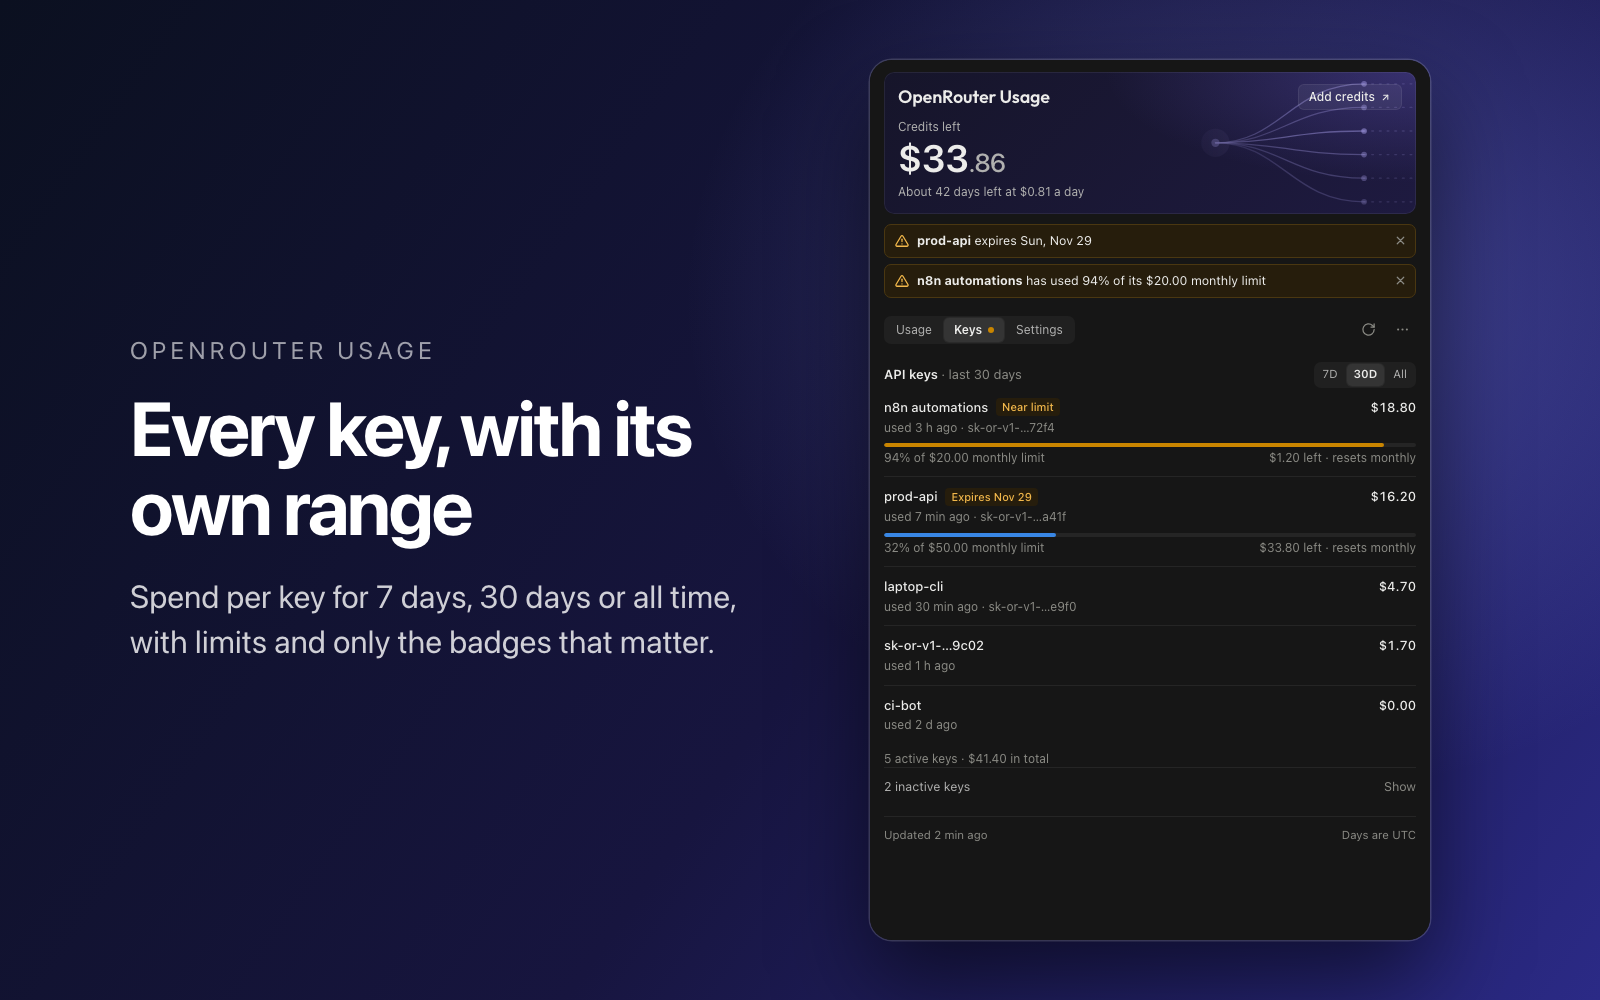
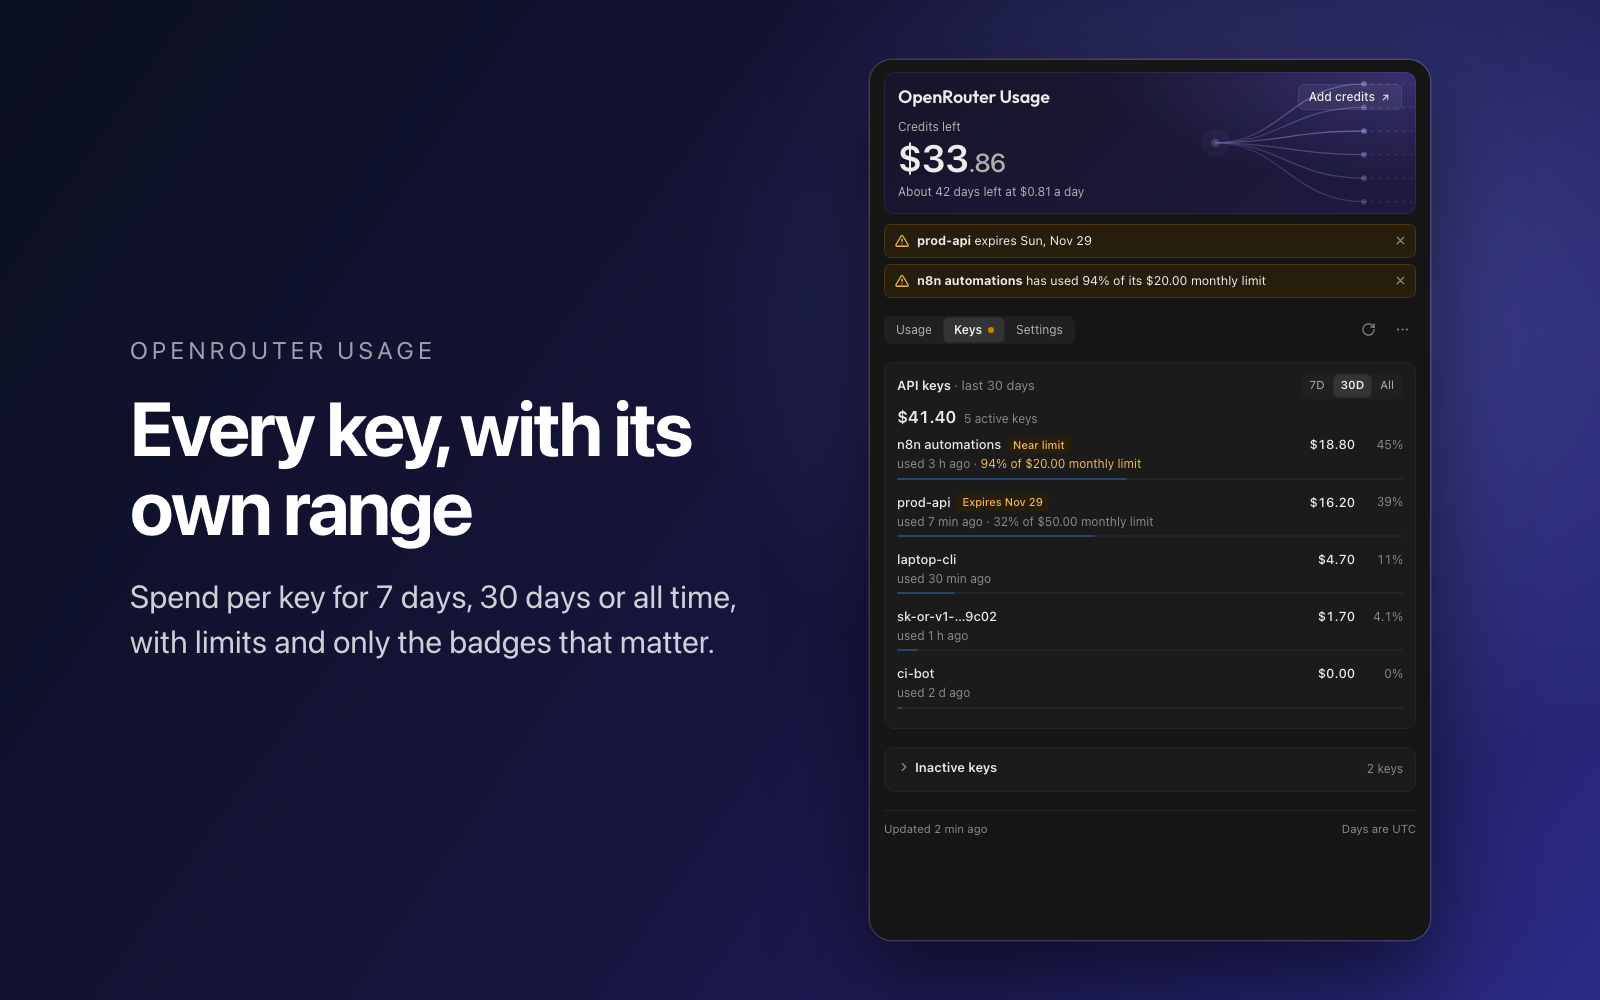
style: give Keys the Usage design
Keys sit in a card with the range switch and total, listed like models
with their share of spend; badges appear only when a key needs
attention, and a near limit turns its limit line amber. Clicking a key
opens today, week, month, all-time spend, limit, expiry and label.
Inactive keys fold away under an arrow.

diff --git a/panel/index.html b/panel/index.html
@@ -225,6 +225,13 @@ button.mrow:hover { background: var(--hover); }
 .mrow[aria-expanded="true"] .bar i { background: var(--bar); }
 .mrow[aria-expanded="true"] .n { font-weight: 600; }
 .mrow.more .n { color: var(--fg-2); }
+.krow2 { grid-template-columns: minmax(0, 1fr) auto 38px; }
+.krow2 .n { display: flex; align-items: center; gap: 6px; min-width: 0; }
+.krow2 .kn { overflow: hidden; text-overflow: ellipsis; white-space: nowrap; min-width: 0; font-weight: 500; }
+.krow2 .kmeta { grid-column: 1 / -1; font-size: 12px; color: var(--muted); margin-top: 1px; white-space: nowrap; overflow: hidden; text-overflow: ellipsis; }
+.krow2 .lim.warn { color: var(--warn); }
+.kd-meter { height: 4px; margin-bottom: 4px; }
+.kd-reset { margin-bottom: 8px; }
 .mdetail { padding: 8px 0 12px; border-bottom: 1px solid var(--hair); margin-bottom: 4px; }
 .kv { display: grid; grid-template-columns: repeat(3, minmax(0, 1fr)); gap: 8px 12px; }
 .kv div { min-width: 0; }
@@ -250,21 +257,10 @@ button.mrow:hover { background: var(--hover); }
 .scale i { width: 9px; height: 9px; border-radius: 2px; display: inline-block; }
 
 /* keys */
-.klist { list-style: none; margin: 0; padding: 0; }
-.krow { padding: 10px 0; border-top: 1px solid var(--hair); }
-.krow:first-child { border-top: 0; padding-top: 4px; }
-.k1 { display: flex; align-items: center; gap: 8px; min-width: 0; }
-.k1 .n { font-weight: 500; overflow: hidden; text-overflow: ellipsis; white-space: nowrap; }
-.k1 .v { margin-left: auto; font-weight: 500; font-variant-numeric: tabular-nums; }
-.k2 { font-size: 12px; color: var(--muted); margin-top: 2px; display: flex; gap: 8px; justify-content: space-between; flex-wrap: wrap; }
 .badge { font-size: 11px; font-weight: 500; padding: 0 6px; border-radius: 4px; line-height: 18px; white-space: nowrap; flex: none; }
 .badge.warn { color: var(--warn); background: var(--warn-bg); }
 .badge.danger { color: var(--danger); background: var(--danger-bg); }
 .badge.neutral { color: var(--fg-2); background: var(--neutral-bg); }
-.kmeter { margin-top: 7px; }
-.kmeter .meter { height: 4px; }
-.inactive { width: 100%; border: 0; border-top: 1px solid var(--hair); background: transparent; text-align: left; padding: 10px 0 2px; color: var(--fg-2); font-size: 12.5px; cursor: pointer; display: flex; justify-content: space-between; }
-.inactive .n { color: var(--fg-2); }
 
 /* settings */
 .conn { display: grid; grid-template-columns: auto minmax(0, 1fr); gap: 10px; align-items: center; padding: 6px 0 10px; }
@@ -391,9 +387,9 @@ const state = {
   pin: null,               // pinned date range: { from, to }
   pendingPin: null,        // a heatmap day to pin once the wider range has loaded
   model: null,             // model selected in the list (range mode)
-  inactiveOpen: false,
+  keyOpen: null,           // key hash whose details are open
   heatFocus: null,
-  open: { mix: false, heat: false }   // collapsible Usage sections; closed until opened, then remembered
+  open: { mix: false, heat: false, inactive: false }   // collapsible Usage sections; closed until opened, then remembered
 };
 
 let reqSeq = 0;
@@ -476,7 +472,7 @@ function loadPrefs() {
     if (RANGES.some(([v]) => v === p.keysRange)) state.keysRange = p.keysRange;
     if (MEASURES.some(([v]) => v === p.measure)) state.measure = p.measure;
     if (TABS.some(([id]) => id === p.tab)) state.tab = p.tab;
-    if (p.open && typeof p.open === 'object') state.open = { mix: p.open.mix === true, heat: p.open.heat === true };
+    if (p.open && typeof p.open === 'object') state.open = { mix: p.open.mix === true, heat: p.open.heat === true, inactive: p.open.inactive === true };
   } catch (e) { /* storage unavailable: defaults */ }
   try {
     const d = JSON.parse(localStorage.getItem(DISMISS_KEY) || '[]');
@@ -938,6 +934,7 @@ function keysHtml(rep) {
   const active = all.filter((k) => !isInactive(k)).sort((a, b) => (keySpend(b, r) ?? -1) - (keySpend(a, r) ?? -1));
   const inactive = all.filter(isInactive);
   const total = active.reduce((s, k) => s + (keySpend(k, r) || 0), 0);
+  const scope = r === 'all' ? 'all time' : 'last ' + RANGE_DAYS[r] + ' days';
   const seg = `<div class="seg sm" role="radiogroup" aria-label="Key spend range">${RANGES.map(([v, l]) => `<button type="button" role="radio" aria-checked="${r === v}" tabindex="${r === v ? 0 : -1}" data-act="krange" data-val="${v}" data-fk="krange:${v}">${l}</button>`).join('')}</div>`;
   const badges = (k) => {
     const h = k.health || {};
@@ -949,23 +946,50 @@ function keysHtml(rep) {
     else if (h.limit === 'near') b.push(['warn', 'Near limit']);
     return b.map(([t, l]) => `<span class="badge ${t}">${esc(l)}</span>`).join('');
   };
-  const row = (k, quiet) => {
-    const s = keySpend(k, r);
+  const limitLine = (k) => {
+    if (k.limit == null) return '';
     const h = k.health || {};
-    const used = h.usedFraction;
-    const meta = [k.lastUsedAt ? 'used ' + relTime(k.lastUsedAt) : 'never used', k.name && k.label ? k.label : ''].filter(Boolean).join(' · ');
-    const limit = k.limit != null && !quiet ? `<div class="kmeter"><div class="meter" role="meter" aria-label="${esc(keyName(k))} limit used" aria-valuemin="0" aria-valuemax="100" aria-valuenow="${Math.round((used || 0) * 100)}"><i class="now${h.limit ? ' warn' : ''}" style="width:${((used || 0) * 100).toFixed(1)}%"></i></div>
-      <div class="k2"><span>${pct(used || 0)} of ${esc(money(k.limit))}${k.limitReset ? ' ' + RESET[k.limitReset] : ''} limit</span><span>${k.limitRemaining != null ? esc(money(Math.max(0, k.limitRemaining))) + ' left' : ''}${k.limitReset ? ' · resets ' + RESET[k.limitReset] : ''}</span></div></div>` : '';
-    return `<li class="krow"><div class="k1"><span class="n"${quiet ? ' style="color:var(--fg-2)"' : ''} title="${esc(keyName(k))}">${esc(keyName(k))}</span>${badges(k)}<span class="v"${s == null ? ' title="Still loading this key\'s activity"' : ''}>${s == null ? '—' : esc(money(s))}</span></div><div class="k2"><span>${esc(meta)}</span></div>${limit}</li>`;
+    return `<span class="${h.limit ? 'lim warn' : 'lim'}">${pct(h.usedFraction || 0)} of ${esc(money(k.limit))}${k.limitReset ? ' ' + RESET[k.limitReset] : ''} limit</span>`;
   };
-  const scope = r === 'all' ? 'all time' : 'last ' + RANGE_DAYS[r] + ' days';
-  return `<section aria-labelledby="h-keys">
-    <div class="sec-h"><h2 id="h-keys">API keys <span class="scope">· ${scope}</span></h2><div class="ctl">${seg}</div></div>
-    ${active.length || inactive.length ? '' : '<p class="note-row">No API keys on this account yet.</p>'}
-    ${active.length ? `<ul class="klist">${active.map((k) => row(k, false)).join('')}</ul><p class="fine" style="margin-top:6px">${active.length} active key${active.length === 1 ? '' : 's'} · ${esc(money(total))} in total</p>` : ''}
-    ${inactive.length ? `<button type="button" class="inactive" data-act="inactive" data-fk="inactive" aria-expanded="${state.inactiveOpen}"><span>${inactive.length} inactive key${inactive.length === 1 ? '' : 's'}</span><span class="muted">${state.inactiveOpen ? 'Hide' : 'Show'}</span></button>
-      ${state.inactiveOpen ? `<ul class="klist">${inactive.map((k) => row(k, true)).join('')}</ul>` : ''}` : ''}
-  </section>`;
+  const detail = (k) => {
+    const h = k.health || {};
+    const inc = state.settings ? state.settings.includeByok : true;
+    const with_ = (v, b) => v + (inc ? b || 0 : 0);
+    const cells = [
+      ['Today', money(with_(k.usageDaily, k.byokUsageDaily))],
+      ['This week', money(with_(k.usageWeekly, k.byokUsageWeekly))],
+      ['This month', money(with_(k.usageMonthly, k.byokUsageMonthly))],
+      ['All time', money(with_(k.usage, k.byokUsage))],
+      ['Limit', k.limit == null ? 'None' : money(k.limit) + (k.limitReset ? ' ' + RESET[k.limitReset] : '')],
+      ['Left', k.limit == null ? '—' : money(Math.max(0, k.limitRemaining != null ? k.limitRemaining : k.limit * (1 - (h.usedFraction || 0))))],
+      ['Last used', k.lastUsedAt ? relTime(k.lastUsedAt) : 'Never'],
+      ['Expires', k.expiresAt ? dShort(k.expiresAt.slice(0, 10)) : 'Never'],
+      ['Key', k.label || '—']
+    ];
+    const meter = k.limit != null ? `<div class="meter kd-meter" role="meter" aria-label="${esc(keyName(k))} limit used" aria-valuemin="0" aria-valuemax="100" aria-valuenow="${Math.round((h.usedFraction || 0) * 100)}"><i class="now${h.limit ? ' warn' : ''}" style="width:${((h.usedFraction || 0) * 100).toFixed(1)}%"></i></div>${k.limitReset ? `<p class="fine kd-reset">Resets ${RESET[k.limitReset]} (UTC)</p>` : ''}` : '';
+    return `<div class="mdetail">${meter}<div class="kv">${cells.map(([a, v]) => `<div><div class="k">${a}</div><div class="v" title="${esc(v)}">${esc(v)}</div></div>`).join('')}</div></div>`;
+  };
+  const row = (k, quiet) => {
+    const v = keySpend(k, r);
+    const open = state.keyOpen === k.hash;
+    const share = total > 0 && v ? v / total : 0;
+    const meta = [k.lastUsedAt ? 'used ' + relTime(k.lastUsedAt) : 'never used'].join('');
+    return `<li><button type="button" class="mrow krow2" aria-expanded="${open}" data-act="key" data-val="${esc(k.hash)}" data-fk="key:${esc(k.hash)}" title="${esc(keyName(k))}">
+      <span class="n"><span class="kn">${esc(keyName(k))}</span>${badges(k)}</span><span class="val"${v == null ? ' title="Still loading this key\'s activity"' : ''}>${v == null ? '—' : esc(money(v))}</span><span class="pct">${quiet ? '' : pct(share)}</span>
+      <span class="kmeta">${esc(meta)}${k.limit != null ? ' · ' : ''}${limitLine(k)}</span>
+      ${quiet ? '' : `<span class="bar" aria-hidden="true"><i style="width:${Math.max(1, share * 100).toFixed(1)}%"></i></span>`}</button>${open ? detail(k) : ''}</li>`;
+  };
+  let h = `<section class="ucard" aria-labelledby="h-keys">
+    <div class="sec-h"><h2 id="h-keys">API keys <span class="scope">· ${scope}</span></h2><div class="ctl">${seg}</div></div>`;
+  if (!active.length && !inactive.length) return h + '<p class="note-row">No API keys on this account yet.</p></section>';
+  h += `<div class="readout"><span class="v">${esc(money(total))}</span><span class="m">${active.length} active key${active.length === 1 ? '' : 's'}</span></div>`;
+  h += active.length ? `<ul class="mlist">${active.map((k) => row(k, false)).join('')}</ul>` : '<p class="note-row">No active keys.</p>';
+  h += '</section>';
+  if (inactive.length) {
+    h += `<section class="ucard" aria-labelledby="h-inactive">${collHead('inactive', 'h-inactive', 'Inactive keys', '', `${inactive.length} key${inactive.length === 1 ? '' : 's'}`)}
+      ${state.open.inactive ? `<ul class="mlist" id="b-inactive">${inactive.map((k) => row(k, true)).join('')}</ul>` : ''}</section>`;
+  }
+  return h;
 }
 
 /* ---------- rendering: settings ---------- */
@@ -1326,7 +1350,7 @@ app.addEventListener('click', (e) => {
     case 'model': state.model = state.model === v ? null : v; render(); break;
     case 'unpin': state.pin = null; state.hover = null; render(); break;
     case 'toggle': state.open = { ...state.open, [v]: !state.open[v] }; savePrefs(); render(); break;
-    case 'inactive': state.inactiveOpen = !state.inactiveOpen; render(); break;
+    case 'key': state.keyOpen = state.keyOpen === v ? null : v; render(); break;
     case 'menu': state.menu = !state.menu; render(); if (state.menu) focusFk('export:daily'); break;
     case 'export': exportCsv(v); break;
     case 'refresh': doRefresh(); break;
@@ -1678,7 +1702,7 @@ if (!window.orca || !window.orca.plugin) {
   window.orca = makeMock();
   // Preview states for screenshots: #pin=<days ago>, #model (select the top model), #scroll=<element id>, #open (open the collapsed sections).
   const h = location.hash;
-  if (/(?:^#|,)open(?:,|$)/.test(h)) state.open = { mix: true, heat: true };
+  if (/(?:^#|,)open(?:,|$)/.test(h)) state.open = { mix: true, heat: true, inactive: true };
   const pinAgo = (h.match(/(?:^#|,)pin=(\d+)/) || [])[1];
   const scrollTo = (h.match(/(?:^#|,)scroll=([a-z-]+)/) || [])[1];
   if (pinAgo || /(?:^#|,)model(?:,|$)/.test(h) || scrollTo) devHook = () => {
@@ -1693,7 +1717,7 @@ if (!window.orca || !window.orca.plugin) {
 
 const previewOpen = state.open.mix && state.open.heat;
 loadPrefs();
-if (previewOpen) state.open = { mix: true, heat: true };
+if (previewOpen) state.open = { mix: true, heat: true, inactive: true };
 // #tab=keys selects a tab for this load only; it is not written to prefs.
 const hashTab = (location.hash.match(/(?:^#|,)tab=([a-z]+)/) || [])[1];
 if (TABS.some(([id]) => id === hashTab)) state.tab = hashTab;

diff --git a/CHANGELOG.md b/CHANGELOG.md
@@ -13,7 +13,7 @@ A redesign: one answer first, detail on demand.
 - **Token mix** is now four numbers that follow the range or the selected day: cached prompt, uncached prompt, completion and reasoning, with the cache hit rate and the prompt-to-output ratio.
 - Token mix and Activity start closed, each with an arrow to open it and a one-line summary while closed (cache hit, total). What you open stays open.
 - The **activity heatmap** covers 26 weeks, follows Cost or Tokens, and selects a day when you click it, widening the range when needed.
-- **Keys** has its own 7D, 30D and All switch, shows badges only when a key needs attention, and folds inactive keys away.
+- **Keys** follows the same design: a card with its own 7D, 30D and All switch, keys listed like models with their share of spend, badges only when a key needs attention, and an amber limit line when one is near its limit. Click a key for today, this week, this month, all time, its limit, expiry and label. Inactive keys fold away under an arrow.
 - Settings keep the same options, grouped into Account, Appearance, Alerts and budgets, Status bar and Data. CSV export moved to the ⋯ menu.
 - The page no longer shows a scrollbar that comes and goes and shifts the layout.
 - Choose the banner's **colour** (purple, gold, teal, rose or graphite) and switch **Vivid** on for a bold version, with a half-size live preview beside the controls in Settings. Both are regular plugin settings, so they also appear in Orca's settings. When credits run short, the banner keeps your colour and shows a warning icon; the warnings below it carry the details.
